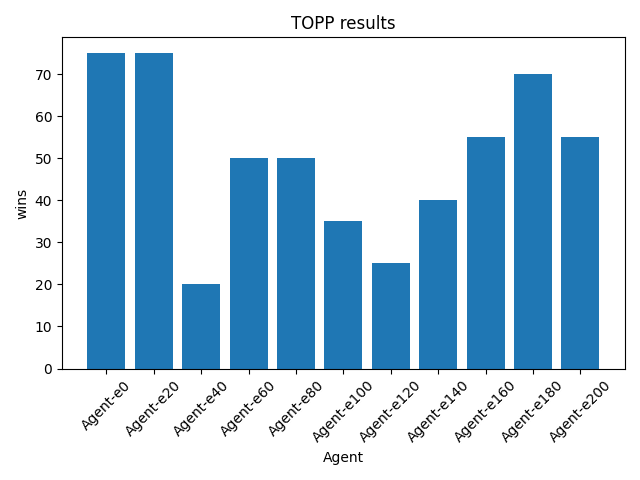
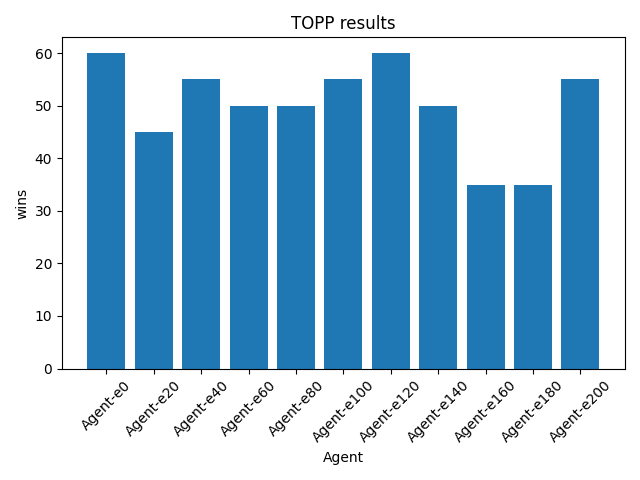
qwdqwq
qwdqwd

diff --git a/src/parameters.py b/src/parameters.py
@@ -13,9 +13,9 @@ EPISODES = 200
 REPLAY_BUFFER_SIZE = 256
 
 # MCTS parameters
-MIN_NUMBER_OF_ROLLOUTS = 36
-SIMULATION_TIME_OUT = 0.005  # s
+SIMULATION_TIME_OUT = 0  # s
 UCT_C = 1  # "theoretically 1"
+MIN_NUMBER_OF_ROLLOUTS = 36
 
 # Simulated World
 GAME_TYPE = Game.Hex

diff --git a/src/TreeNode.py b/src/TreeNode.py
@@ -10,7 +10,7 @@ class TreeNode:
 
     player_reward = {
         1: 1,
-        2: -1
+        2: -10
     }
 
     def __init__(self, state: Tuple[int, ...], parent: Optional[TreeNode] = None) -> None:
